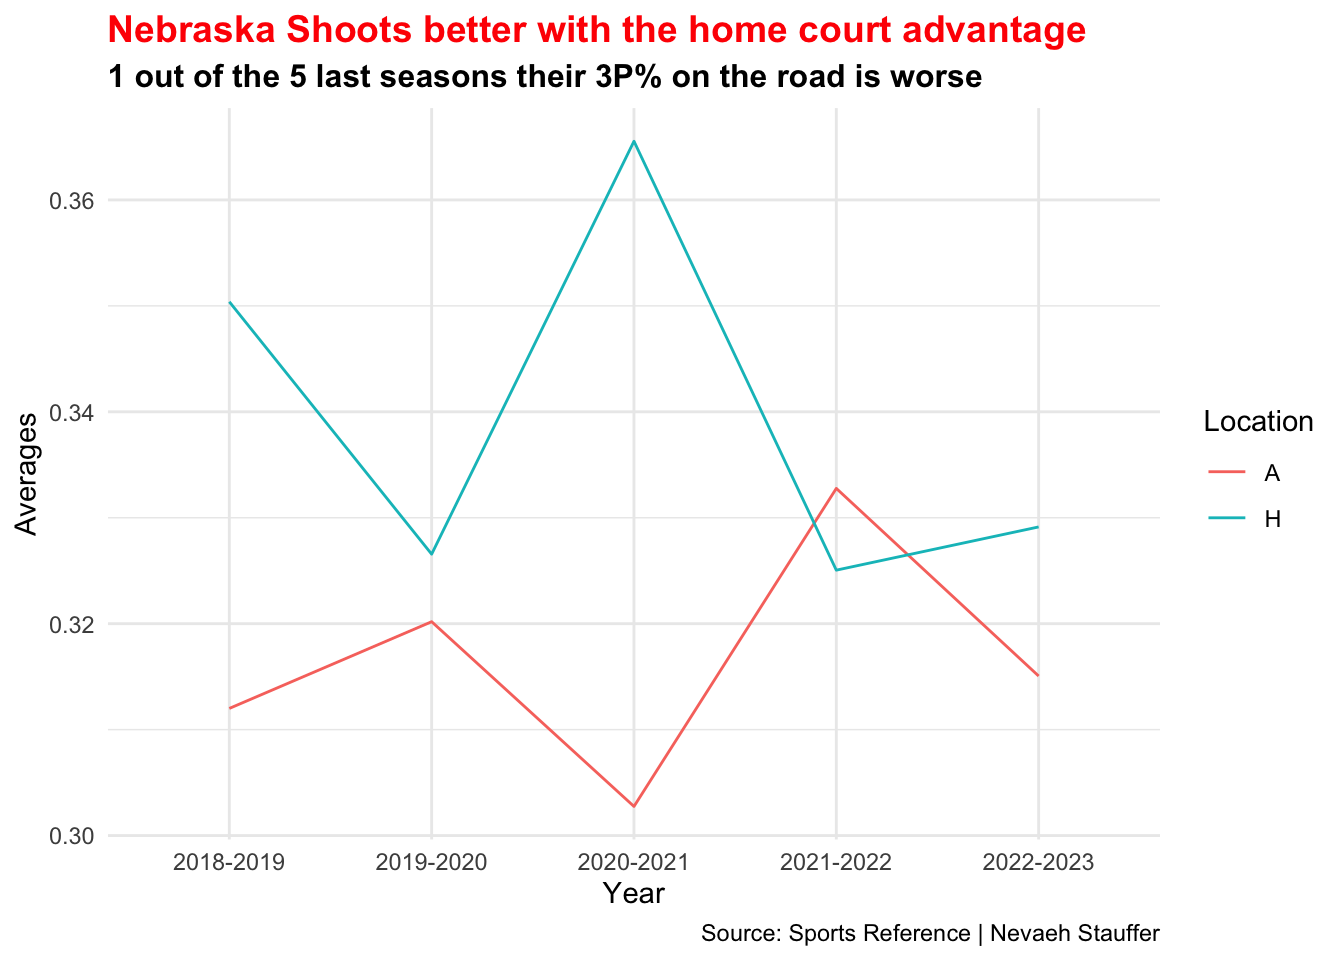
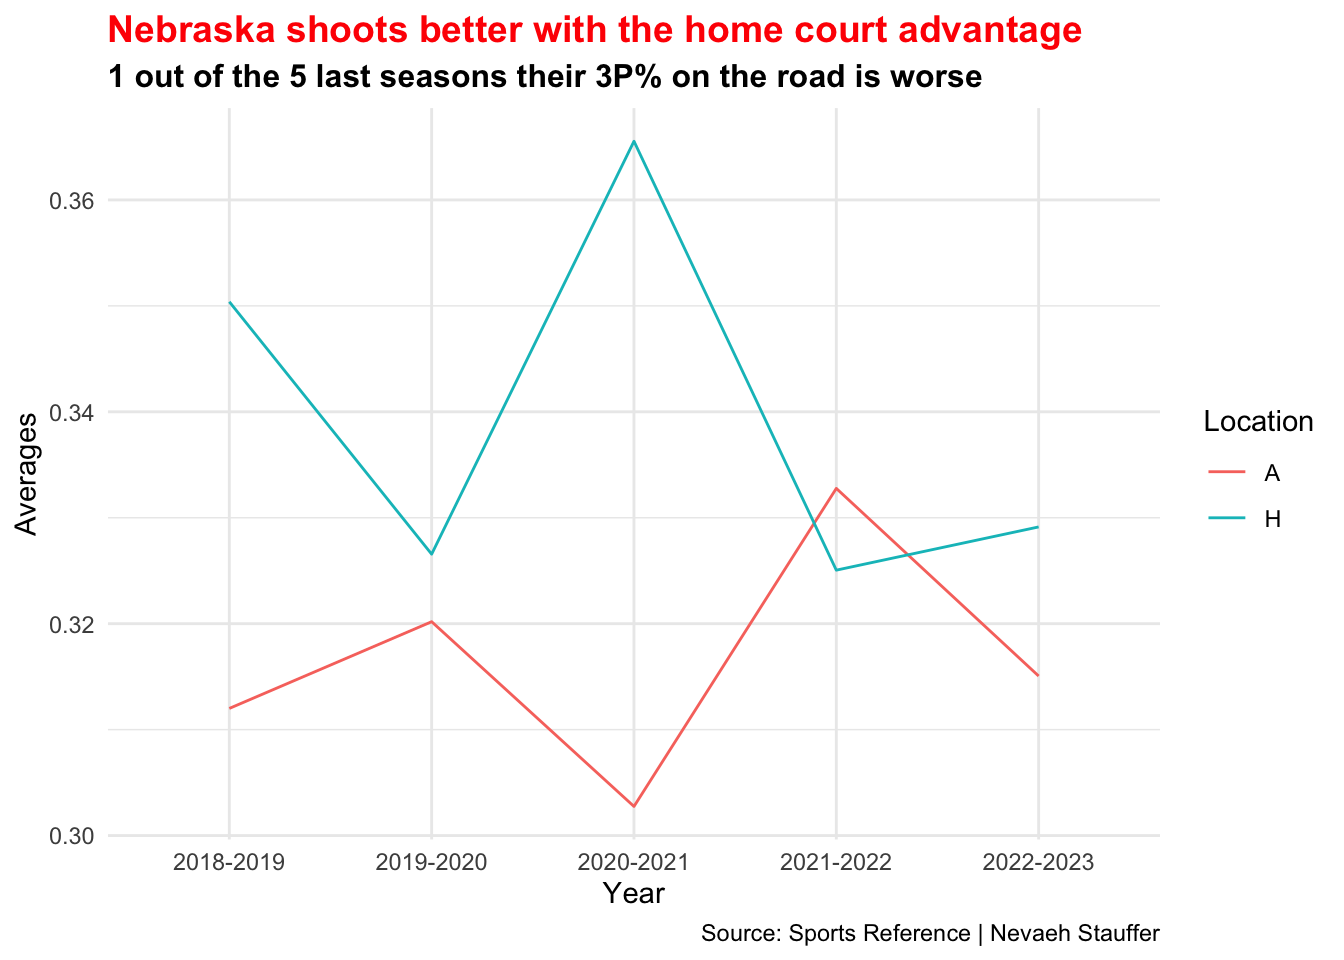
project2

Changed region(s): [[0.2188, 0.0, 0.8125, 0.0625]]

diff --git a/posts/nebraska-shooting-home-away/index.html b/posts/nebraska-shooting-home-away/index.html
@@ -215,7 +215,7 @@ pre > code.sourceCode > span > a:first-child::before { text-decoration: underlin
 <span id="cb1-26"><a href="#cb1-26" aria-hidden="true" tabindex="-1"></a><span class="fu">ggplot</span>() <span class="sc">+</span> </span>
 <span id="cb1-27"><a href="#cb1-27" aria-hidden="true" tabindex="-1"></a>  <span class="fu">geom_line</span>(<span class="at">data =</span> menthrees, <span class="fu">aes</span>(<span class="at">x =</span> Year, <span class="at">y =</span> Average3PPct, <span class="at">color =</span> Location, <span class="at">group=</span>Location)) <span class="sc">+</span></span>
 <span id="cb1-28"><a href="#cb1-28" aria-hidden="true" tabindex="-1"></a>  <span class="fu">labs</span>(</span>
-<span id="cb1-29"><a href="#cb1-29" aria-hidden="true" tabindex="-1"></a>    <span class="at">title =</span> <span class="st">"Nebraska Shoots better with the home court advantage"</span>,</span>
+<span id="cb1-29"><a href="#cb1-29" aria-hidden="true" tabindex="-1"></a>    <span class="at">title =</span> <span class="st">"Nebraska shoots better with the home court advantage"</span>,</span>
 <span id="cb1-30"><a href="#cb1-30" aria-hidden="true" tabindex="-1"></a>    <span class="at">subtitle =</span> <span class="st">"1 out of the 5 last seasons their 3P% on the road is worse"</span>,</span>
 <span id="cb1-31"><a href="#cb1-31" aria-hidden="true" tabindex="-1"></a>    <span class="at">x =</span> <span class="st">"Year"</span>,</span>
 <span id="cb1-32"><a href="#cb1-32" aria-hidden="true" tabindex="-1"></a>    <span class="at">y =</span> <span class="st">"Averages"</span>,</span>
@@ -298,7 +298,7 @@ pre > code.sourceCode > span > a:first-child::before { text-decoration: underlin
 <span id="cb2-60"><a href="#cb2-60" aria-hidden="true" tabindex="-1"></a>  <span class="fu">geom_text_repel</span>(<span class="at">data=</span>nuhome, </span>
 <span id="cb2-61"><a href="#cb2-61" aria-hidden="true" tabindex="-1"></a>    <span class="fu">aes</span>(<span class="at">x=</span>Average3PPct, <span class="at">y=</span>Season, <span class="at">label=</span>TeamLocation)) <span class="sc">+</span> </span>
 <span id="cb2-62"><a href="#cb2-62" aria-hidden="true" tabindex="-1"></a>  <span class="fu">labs</span>(</span>
-<span id="cb2-63"><a href="#cb2-63" aria-hidden="true" tabindex="-1"></a>    <span class="at">title =</span> <span class="st">"Nebraska's Three Point shooting is just average "</span>,</span>
+<span id="cb2-63"><a href="#cb2-63" aria-hidden="true" tabindex="-1"></a>    <span class="at">title =</span> <span class="st">"Nebraska's 3 Point shooting is just average "</span>,</span>
 <span id="cb2-64"><a href="#cb2-64" aria-hidden="true" tabindex="-1"></a>    <span class="at">subtitle =</span> <span class="st">"Comparing the Huskers to the Big Ten, Nebraska is in the middle"</span>,</span>
 <span id="cb2-65"><a href="#cb2-65" aria-hidden="true" tabindex="-1"></a>    <span class="at">x =</span> <span class="st">"Averages"</span>,</span>
 <span id="cb2-66"><a href="#cb2-66" aria-hidden="true" tabindex="-1"></a>    <span class="at">y =</span> <span class="st">"Season"</span>,</span>
@@ -366,23 +366,23 @@ pre > code.sourceCode > span > a:first-child::before { text-decoration: underlin
 </details>
 <div class="cell-output-display">
 
-<div id="eldrnlyycs" style="padding-left:0px;padding-right:0px;padding-top:10px;padding-bottom:10px;overflow-x:auto;overflow-y:auto;width:auto;height:auto;">
-<style>#eldrnlyycs table {
+<div id="aovqbhfwfx" style="padding-left:0px;padding-right:0px;padding-top:10px;padding-bottom:10px;overflow-x:auto;overflow-y:auto;width:auto;height:auto;">
+<style>#aovqbhfwfx table {
   font-family: system-ui, 'Segoe UI', Roboto, Helvetica, Arial, sans-serif, 'Apple Color Emoji', 'Segoe UI Emoji', 'Segoe UI Symbol', 'Noto Color Emoji';
   -webkit-font-smoothing: antialiased;
   -moz-osx-font-smoothing: grayscale;
 }
 
-#eldrnlyycs thead, #eldrnlyycs tbody, #eldrnlyycs tfoot, #eldrnlyycs tr, #eldrnlyycs td, #eldrnlyycs th {
+#aovqbhfwfx thead, #aovqbhfwfx tbody, #aovqbhfwfx tfoot, #aovqbhfwfx tr, #aovqbhfwfx td, #aovqbhfwfx th {
   border-style: none;
 }
 
-#eldrnlyycs p {
+#aovqbhfwfx p {
   margin: 0;
   padding: 0;
 }
 
-#eldrnlyycs .gt_table {
+#aovqbhfwfx .gt_table {
   display: table;
   border-collapse: collapse;
   line-height: normal;
@@ -408,12 +408,12 @@ pre > code.sourceCode > span > a:first-child::before { text-decoration: underlin
   border-left-color: #D3D3D3;
 }
 
-#eldrnlyycs .gt_caption {
+#aovqbhfwfx .gt_caption {
   padding-top: 4px;
   padding-bottom: 4px;
 }
 
-#eldrnlyycs .gt_title {
+#aovqbhfwfx .gt_title {
   color: #333333;
   font-size: 125%;
   font-weight: initial;
@@ -425,7 +425,7 @@ pre > code.sourceCode > span > a:first-child::before { text-decoration: underlin
   border-bottom-width: 0;
 }
 
-#eldrnlyycs .gt_subtitle {
+#aovqbhfwfx .gt_subtitle {
   color: #333333;
   font-size: 85%;
   font-weight: initial;
@@ -437,7 +437,7 @@ pre > code.sourceCode > span > a:first-child::before { text-decoration: underlin
   border-top-width: 0;
 }
 
-#eldrnlyycs .gt_heading {
+#aovqbhfwfx .gt_heading {
   background-color: #FFFFFF;
   text-align: center;
   border-bottom-color: #FFFFFF;
@@ -449,13 +449,13 @@ pre > code.sourceCode > span > a:first-child::before { text-decoration: underlin
   border-right-color: #D3D3D3;
 }
 
-#eldrnlyycs .gt_bottom_border {
+#aovqbhfwfx .gt_bottom_border {
   border-bottom-style: none;
   border-bottom-width: 2px;
   border-bottom-color: #D3D3D3;
 }
 
-#eldrnlyycs .gt_col_headings {
+#aovqbhfwfx .gt_col_headings {
   border-top-style: none;
   border-top-width: 2px;
   border-top-color: #D3D3D3;
@@ -470,7 +470,7 @@ pre > code.sourceCode > span > a:first-child::before { text-decoration: underlin
   border-right-color: #D3D3D3;
 }
 
-#eldrnlyycs .gt_col_heading {
+#aovqbhfwfx .gt_col_heading {
   color: #333333;
   background-color: #FFFFFF;
   font-size: 100%;
@@ -490,7 +490,7 @@ pre > code.sourceCode > span > a:first-child::before { text-decoration: underlin
   overflow-x: hidden;
 }
 
-#eldrnlyycs .gt_column_spanner_outer {
+#aovqbhfwfx .gt_column_spanner_outer {
   color: #333333;
   background-color: #FFFFFF;
   font-size: 100%;
@@ -502,15 +502,15 @@ pre > code.sourceCode > span > a:first-child::before { text-decoration: underlin
   padding-right: 4px;
 }
 
-#eldrnlyycs .gt_column_spanner_outer:first-child {
+#aovqbhfwfx .gt_column_spanner_outer:first-child {
   padding-left: 0;
 }
 
-#eldrnlyycs .gt_column_spanner_outer:last-child {
+#aovqbhfwfx .gt_column_spanner_outer:last-child {
   padding-right: 0;
 }
 
-#eldrnlyycs .gt_column_spanner {
+#aovqbhfwfx .gt_column_spanner {
   border-bottom-style: none;
   border-bottom-width: 2px;
   border-bottom-color: #D3D3D3;
@@ -522,11 +522,11 @@ pre > code.sourceCode > span > a:first-child::before { text-decoration: underlin
   width: 100%;
 }
 
-#eldrnlyycs .gt_spanner_row {
+#aovqbhfwfx .gt_spanner_row {
   border-bottom-style: hidden;
 }
 
-#eldrnlyycs .gt_group_heading {
+#aovqbhfwfx .gt_group_heading {
   padding-top: 8px;
   padding-bottom: 8px;
   padding-left: 5px;
@@ -552,7 +552,7 @@ pre > code.sourceCode > span > a:first-child::before { text-decoration: underlin
   text-align: left;
 }
 
-#eldrnlyycs .gt_empty_group_heading {
+#aovqbhfwfx .gt_empty_group_heading {
   padding: 0.5px;
   color: #333333;
   background-color: #FFFFFF;
@@ -567,15 +567,15 @@ pre > code.sourceCode > span > a:first-child::before { text-decoration: underlin
   vertical-align: middle;
 }
 
-#eldrnlyycs .gt_from_md > :first-child {
+#aovqbhfwfx .gt_from_md > :first-child {
   margin-top: 0;
 }
 
-#eldrnlyycs .gt_from_md > :last-child {
+#aovqbhfwfx .gt_from_md > :last-child {
   margin-bottom: 0;
 }
 
-#eldrnlyycs .gt_row {
+#aovqbhfwfx .gt_row {
   padding-top: 8px;
   padding-bottom: 8px;
   padding-left: 5px;
@@ -594,7 +594,7 @@ pre > code.sourceCode > span > a:first-child::before { text-decoration: underlin
   overflow-x: hidden;
 }
 
-#eldrnlyycs .gt_stub {
+#aovqbhfwfx .gt_stub {
   color: #333333;
   background-color: #FFFFFF;
   font-size: 100%;
@@ -607,7 +607,7 @@ pre > code.sourceCode > span > a:first-child::before { text-decoration: underlin
   padding-right: 5px;
 }
 
-#eldrnlyycs .gt_stub_row_group {
+#aovqbhfwfx .gt_stub_row_group {
   color: #333333;
   background-color: #FFFFFF;
   font-size: 100%;
@@ -621,15 +621,15 @@ pre > code.sourceCode > span > a:first-child::before { text-decoration: underlin
   vertical-align: top;
 }
 
-#eldrnlyycs .gt_row_group_first td {
+#aovqbhfwfx .gt_row_group_first td {
   border-top-width: 2px;
 }
 
-#eldrnlyycs .gt_row_group_first th {
+#aovqbhfwfx .gt_row_group_first th {
   border-top-width: 2px;
 }
 
-#eldrnlyycs .gt_summary_row {
+#aovqbhfwfx .gt_summary_row {
   color: #333333;
   background-color: #FFFFFF;
   text-transform: inherit;
@@ -639,16 +639,16 @@ pre > code.sourceCode > span > a:first-child::before { text-decoration: underlin
   padding-right: 5px;
 }
 
-#eldrnlyycs .gt_first_summary_row {
+#aovqbhfwfx .gt_first_summary_row {
   border-top-style: none;
   border-top-color: #D3D3D3;
 }
 
-#eldrnlyycs .gt_first_summary_row.thick {
+#aovqbhfwfx .gt_first_summary_row.thick {
   border-top-width: 2px;
 }
 
-#eldrnlyycs .gt_last_summary_row {
+#aovqbhfwfx .gt_last_summary_row {
   padding-top: 8px;
   padding-bottom: 8px;
   padding-left: 5px;
@@ -658,7 +658,7 @@ pre > code.sourceCode > span > a:first-child::before { text-decoration: underlin
   border-bottom-color: #D3D3D3;
 }
 
-#eldrnlyycs .gt_grand_summary_row {
+#aovqbhfwfx .gt_grand_summary_row {
   color: #333333;
   background-color: #FFFFFF;
   text-transform: inherit;
@@ -668,7 +668,7 @@ pre > code.sourceCode > span > a:first-child::before { text-decoration: underlin
   padding-right: 5px;
 }
 
-#eldrnlyycs .gt_first_grand_summary_row {
+#aovqbhfwfx .gt_first_grand_summary_row {
   padding-top: 8px;
   padding-bottom: 8px;
   padding-left: 5px;
@@ -678,7 +678,7 @@ pre > code.sourceCode > span > a:first-child::before { text-decoration: underlin
   border-top-color: #D3D3D3;
 }
 
-#eldrnlyycs .gt_last_grand_summary_row_top {
+#aovqbhfwfx .gt_last_grand_summary_row_top {
   padding-top: 8px;
   padding-bottom: 8px;
   padding-left: 5px;
@@ -688,11 +688,11 @@ pre > code.sourceCode > span > a:first-child::before { text-decoration: underlin
   border-bottom-color: #D3D3D3;
 }
 
-#eldrnlyycs .gt_striped {
+#aovqbhfwfx .gt_striped {
   background-color: rgba(128, 128, 128, 0.05);
 }
 
-#eldrnlyycs .gt_table_body {
+#aovqbhfwfx .gt_table_body {
   border-top-style: none;
   border-top-width: 2px;
   border-top-color: #D3D3D3;
@@ -701,7 +701,7 @@ pre > code.sourceCode > span > a:first-child::before { text-decoration: underlin
   border-bottom-color: #D3D3D3;
 }
 
-#eldrnlyycs .gt_footnotes {
+#aovqbhfwfx .gt_footnotes {
   color: #333333;
   background-color: #FFFFFF;
   border-bottom-style: none;
@@ -715,7 +715,7 @@ pre > code.sourceCode > span > a:first-child::before { text-decoration: underlin
   border-right-color: #D3D3D3;
 }
 
-#eldrnlyycs .gt_footnote {
+#aovqbhfwfx .gt_footnote {
   margin: 0px;
   font-size: 90%;
   padding-top: 4px;
@@ -724,7 +724,7 @@ pre > code.sourceCode > span > a:first-child::before { text-decoration: underlin
   padding-right: 5px;
 }
 
-#eldrnlyycs .gt_sourcenotes {
+#aovqbhfwfx .gt_sourcenotes {
   color: #333333;
   background-color: #FFFFFF;
   border-bottom-style: none;
@@ -738,7 +738,7 @@ pre > code.sourceCode > span > a:first-child::before { text-decoration: underlin
   border-right-color: #D3D3D3;
 }
 
-#eldrnlyycs .gt_sourcenote {
+#aovqbhfwfx .gt_sourcenote {
   font-size: 90%;
   padding-top: 4px;
   padding-bottom: 4px;
@@ -746,63 +746,63 @@ pre > code.sourceCode > span > a:first-child::before { text-decoration: underlin
   padding-right: 5px;
 }
 
-#eldrnlyycs .gt_left {
+#aovqbhfwfx .gt_left {
   text-align: left;
 }
 
-#eldrnlyycs .gt_center {
+#aovqbhfwfx .gt_center {
   text-align: center;
 }
 
-#eldrnlyycs .gt_right {
+#aovqbhfwfx .gt_right {
   text-align: right;
   font-variant-numeric: tabular-nums;
 }
 
-#eldrnlyycs .gt_font_normal {
+#aovqbhfwfx .gt_font_normal {
   font-weight: normal;
 }
 
-#eldrnlyycs .gt_font_bold {
+#aovqbhfwfx .gt_font_bold {
   font-weight: bold;
 }
 
-#eldrnlyycs .gt_font_italic {
+#aovqbhfwfx .gt_font_italic {
   font-style: italic;
 }
 
-#eldrnlyycs .gt_super {
+#aovqbhfwfx .gt_super {
   font-size: 65%;
 }
 
-#eldrnlyycs .gt_footnote_marks {
+#aovqbhfwfx .gt_footnote_marks {
   font-size: 75%;
   vertical-align: 0.4em;
   position: initial;
 }
 
-#eldrnlyycs .gt_asterisk {
+#aovqbhfwfx .gt_asterisk {
   font-size: 100%;
   vertical-align: 0;
 }
 
-#eldrnlyycs .gt_indent_1 {
+#aovqbhfwfx .gt_indent_1 {
   text-indent: 5px;
 }
 
-#eldrnlyycs .gt_indent_2 {
+#aovqbhfwfx .gt_indent_2 {
   text-indent: 10px;
 }
 
-#eldrnlyycs .gt_indent_3 {
+#aovqbhfwfx .gt_indent_3 {
   text-indent: 15px;
 }
 
-#eldrnlyycs .gt_indent_4 {
+#aovqbhfwfx .gt_indent_4 {
   text-indent: 20px;
 }
 
-#eldrnlyycs .gt_indent_5 {
+#aovqbhfwfx .gt_indent_5 {
   text-indent: 25px;
 }
 </style>
